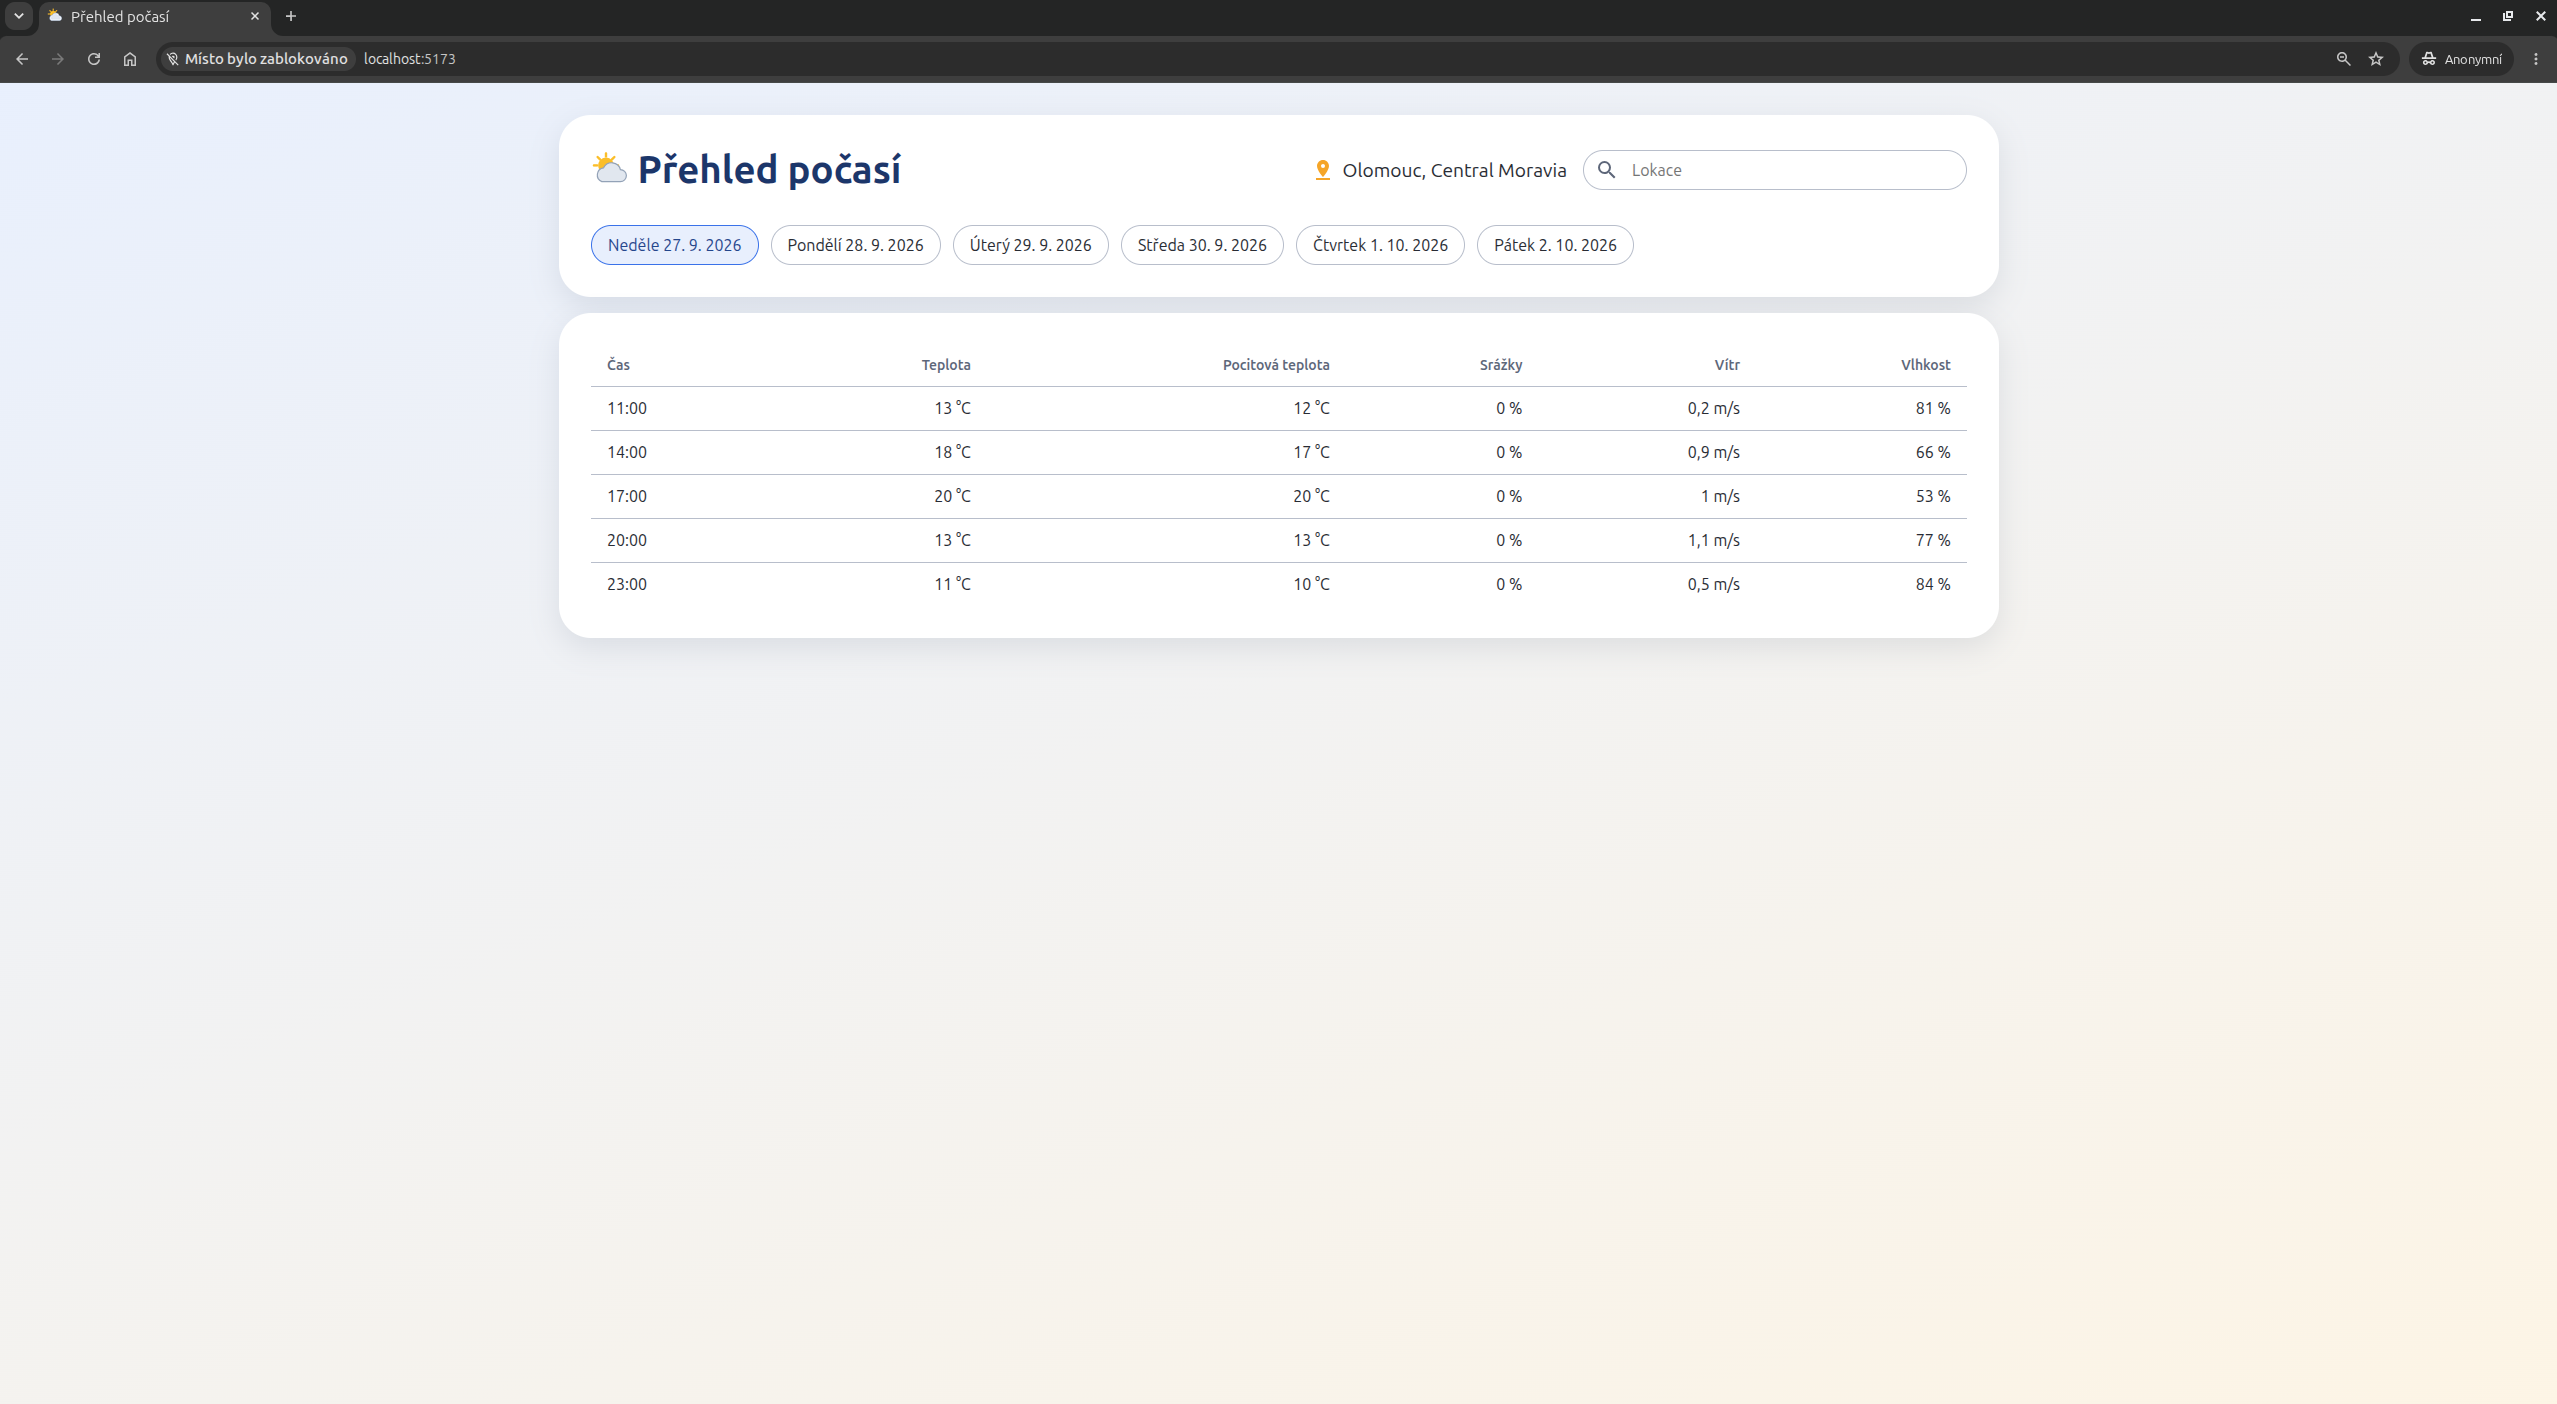
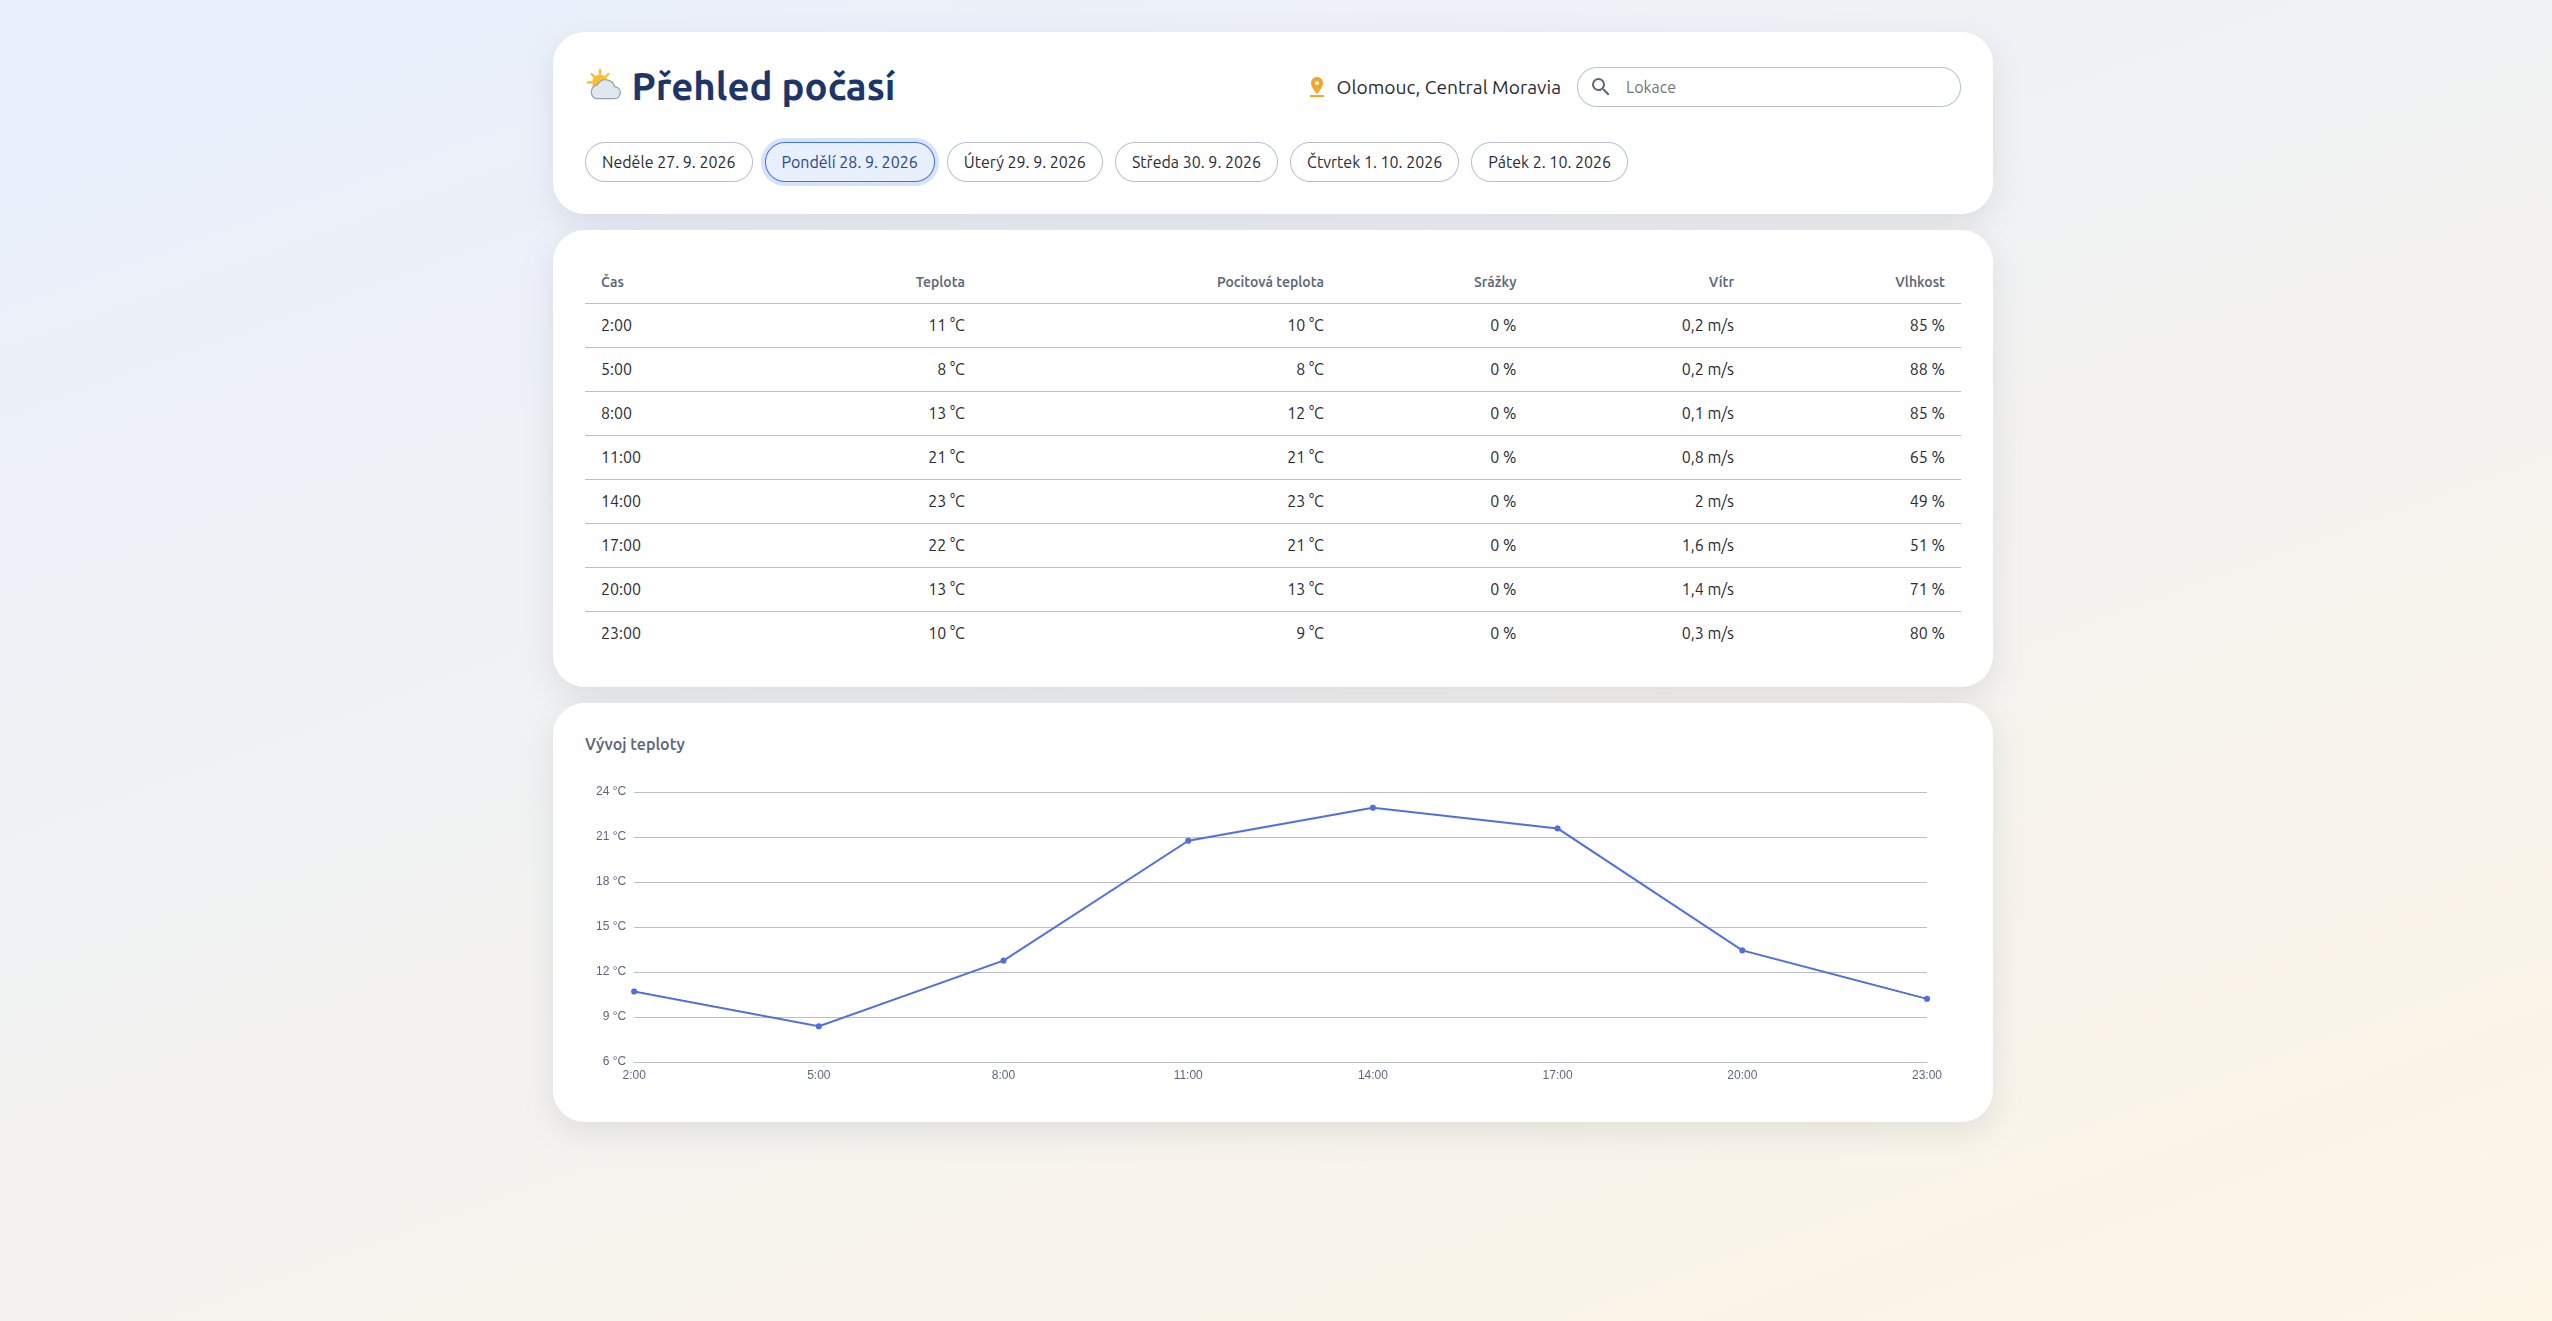
feat(#repo): documentation

Changed region(s): [[0.0, 0.0, 1.0, 0.4656], [0.2476, 0.5587, 0.2786, 0.5897]]

diff --git a/src/App.vue b/src/App.vue
@@ -3,5 +3,5 @@ import { WeatherApp } from "./components";
 </script>
 
 <template>
-  <WeatherApp />
+  <WeatherApp :disable-city-repository="false" />
 </template>

diff --git a/README.md b/README.md
@@ -23,7 +23,7 @@ npm run dev             # vývojový server
 | Příkaz            | Popis                                                |
 |-------------------|------------------------------------------------------|
 | `npm run dev`     | spustí vývojový server (Vite)                        |
-| `npm run build`   | typová kontrola (`tsc`) a produkční build do `dist/` |
+| `npm run build`   | typová kontrola (`vue-tsc`) a produkční build do `dist/` |
 | `npm run preview` | lokálně spustí produkční build                       |
 
 **Bez API klíče aplikace zobrazí upozornění a nenačte se.**
@@ -36,15 +36,19 @@ Zjištění aktuální polohy vyžaduje zabezpečené spojení (HTTPS, případn
 
 ## Struktura
 
-- tech stack: `TypeScript`, `HTML`, `Sass`, build pomocí `Vite`
+- tech stack: `Vue 3` (Composition API, `<script setup>`), `TypeScript`, `Sass`, build pomocí `Vite`
 - napojení na externí `API` [OpenWeather](https://openweathermap.org/)
-- bez knihoven třetích stran, objektový přístup v celé codebase (třídy, pomocné třídy se statickými metodami)
+- graf: [ECharts](https://echarts.apache.org/) přes [vue-echarts](https://github.com/ecomfe/vue-echarts)
+  (knihovnu pro graf zadání povoluje), jinak bez knihoven třetích stran
+- logika v composables (funkce), sdílené pomocné funkce seskupené ve třídách se statickými metodami (`DateUtils`, `Utils`)
 
 ```
 public/data/cities.min.json   seznam měst pro našeptávač (OpenWeather city list, minifikovaný)
 src/
-  main.ts                     vstupní bod – vytvoří a inicializuje App
-  controllers/                správa jednotlivých částí DOM
+  main.ts                     vstupní bod – vytvoří Vue aplikaci
+  App.vue                     kořenová komponenta
+  components/                 komponenty aplikace
+  composables/                sdílené composables (seznam měst, loader, klik mimo prvek)
   api/                        komunikace s API a zdroji dat
   types/                      doménové typy aplikace
   types/dto/                  typy odpovídající datům z API (DTO)
@@ -52,29 +56,52 @@ src/
   assets/css/                 styly (Sass, BEM)
 ```
 
-### Controllers
+Alias `@` odkazuje na `src/` (`vite.config.ts`, `tsconfig.app.json`).
 
-Každý controller spravuje svou část DOM a o ostatních neví. Komunikace probíhá přes `App`:
-data putují dolů přes metody controllerů, události nahoru přes callbacky předané v konstruktoru.
+### Komponenty
 
-- `App` – drží stav aplikace (vybraná lokalita, předpověď), propojuje controllery, řídí orchestraci
-- `Searchbar` – vyhledávací pole s našeptávačem
-- `HeaderControls` – zobrazení vybrané lokality
+Každá komponenta má vlastní složku se stejnou strukturou:
+
+```
+ComponentName/
+  ComponentName.vue     šablona, props, emits
+  useController.ts      logika komponenty
+  types/                typy props, emits a controlleru
+  composables/          composables používané jen touto komponentou (volitelně)
+  index.ts              veřejný export
+```
+
+- `WeatherApp` – drží stav aplikace (vybraná lokalita, vybraný den, předpověď), zjišťuje výchozí polohu
+- `TheHeader` – zobrazení vybrané lokality a vyhledávání
+- `TheSearchbar` – vyhledávací pole s našeptávačem
 - `DayTabs` – výběr dne
-- `Forecast` – načtení předpovědi a tabulka se tříhodinovými intervaly
+- `ForecastTable` – tabulka předpovědi vybraného dne ve tříhodinových intervalech
+- `ForecastChart` – graf vývoje teploty vybraného dne
+
+Data putují dolů přes props, změny nahoru přes `v-model` (`defineModel`) a emits. Stav drží `WeatherApp`,
+ostatní komponenty o sobě navzájem nevědí.
 
 ```
-Searchbar ──onLocationSelected(city)──► App ──► HeaderControls (název lokality)
-                                         └────► Forecast.loadData(city)
-Forecast  ──onDataLoaded(days)────────► App ──► DayTabs (dny), Forecast (tabulka prvního dne)
-DayTabs   ──onDaySelected(day)────────► App ──► Forecast.drawTable(day)
+TheSearchbar ──v-model:selected-location──► TheHeader ──v-model:selected-location──► WeatherApp
+                                                                                      │ useWeatherData(location)
+DayTabs      ◄──:days, v-model:day─────────────────────────────────────────────────── ┤
+ForecastTable ◄──:data (vybraný den)────────────────────────────────────────────────── ┤
+ForecastChart ◄──:data (vybraný den)────────────────────────────────────────────────── ┘
 ```
+
+### Composables
+
+- `useCityRepository` – načte lokální seznam měst jednou (souběžná volání sdílí jeden request) a vyhledává v něm
+- `useLoader` – počítadlo probíhajících načítání (`loading`)
+- `useClickOutside` – zavře popover našeptávače při kliknutí mimo něj
+- `useWeatherData` (`WeatherApp`) – načtení předpovědi pro vybranou lokalitu
+- `usePopover`, `usePopoverOptions` (`TheSearchbar`) – stav popoveru a hledání možností
 
 ### API a data
 
-- `WeatherApi` – volání OpenWeather API (předpověď, reverse geocoding, vyhledávání měst)
-- `CityRepositoryApi` – načte lokální seznam měst jednou a vyhledává v něm v paměti
-- `WeatherMapper` – převod DTO z API na doménové typy, seskupení předpovědi po dnech
+- `useWeatherApi` – volání OpenWeather API (předpověď, reverse geocoding, vyhledávání měst)
+- `useCityRepositoryApi` – stažení lokálního seznamu měst
+- `useWeatherMapper` – převod DTO z API na doménové typy, seskupení předpovědi po dnech
 
 | Účel                  | Zdroj                                   |
 |-----------------------|-----------------------------------------|
@@ -82,13 +109,23 @@ DayTabs   ──onDaySelected(day)────────► App ──► Fore
 | název aktuální polohy | OpenWeather Reverse Geocoding API       |
 | předpověď             | OpenWeather 5 day / 3 hour Forecast API |
 
-Našeptávač lze přepnout na OpenWeather Geocoding API vypnutím flagu `enableCityRepository` v `Searchbar`. Lokální seznam
-měst obsahuje u některých měst anglické názvy (např. `Prague`).
+Našeptávač lze přepnout na OpenWeather Geocoding API propem `disable-city-repository` komponenty `WeatherApp`.
+Při hledání přes API se předchozí rozběhnutý request zruší (`Utils.withAbortable`), takže starší odpověď
+nepřepíše novější. Lokální seznam měst obsahuje u některých měst anglické názvy (např. `Prague`).
 
 Při spuštění se aplikace pokusí zjistit aktuální polohu uživatele. Pokud to není možné (zamítnutí, nepodporovaný
 prohlížeč, chyba), použije se výchozí lokalita Olomouc.
 
 Data a časy jsou formátovány podle jazyka prohlížeče (`Intl`).
+
+### Graf
+
+`ForecastChart` zobrazuje vývoj teploty vybraného dne – na ose x čas, na ose y teplota, tooltip s teplotou a
+pocitovou teplotou.
+
+- nastavení grafu sestavuje čistá funkce `createChartOption` nezávislá na frameworku
+- z ECharts se registrují jen použité části (`LineChart`, `GridComponent`, `TooltipComponent`, `CanvasRenderer`)
+- barvy se čtou z CSS proměnných, ECharts kreslí do canvasu a proměnné neumí použít přímo
 
 ### Styly
 
@@ -97,7 +134,7 @@ Data a časy jsou formátovány podle jazyka prohlížeče (`Intl`).
 - `abstracts/` – proměnné (barvy, písmo, okraje, zaoblení) a breakpointy
 - `base/` – reset a globální styly
 - `layout/` – rozložení stránky (`app`, `container`)
-- `components/` – jednotlivé bloky (`header`, `searchbar`, `day-tabs`, `forecast-table`, …)
+- `components/` – jednotlivé bloky (`header`, `searchbar`, `day-tabs`, `forecast-table`, `forecast-chart`, …)
 - `utils/` – utility třídy (`flex`, `gap-*`, `hidden`, …)
 
 ## Responsivita
@@ -133,30 +170,30 @@ Breakpointy jsou v `rem`, takže se layout přizpůsobí i zvětšenému písmu 
 
 #### Mobil
 
-![Náhled na mobilu](./docs/img/mobile.png)
+![Náhled na mobilu](./docs/img/responsive_mobile.png)
 
 #### Tablet
 
-![Náhled na tabletu](./docs/img/tablet.png)
+![Náhled na tabletu](./docs/img/responsive_tablet.png)
 
 #### Laptop
 
-![Náhled na laptopu](./docs/img/laptop.png)
+![Náhled na laptopu](./docs/img/responsive_laptop.png)
 
 #### Laptop L
 
-![Náhled na větším laptopu](./docs/img/laptop_L.png)
+![Náhled na větším laptopu](./docs/img/responsive_laptop_L.png)
 
 #### 4K
 
-![Náhled na 4K obrazovce](./docs/img/laptop_4K.png)
+![Náhled na 4K obrazovce](./docs/img/responsive_laptop_4K.png)
 
 ## Implementace
 
 | Větev   | Implementace              |
 |---------|---------------------------|
 | `main`  | TypeScript bez frameworku |
-| `vue`   | Vue *(připravuje se)*     |
+| `vue`   | Vue 3                     |
 | `react` | React *(připravuje se)*   |
 
 Funkčnost a vzhled jsou ve všech implementacích stejné, liší se vnitřní struktura. Každá větev obsahuje README
